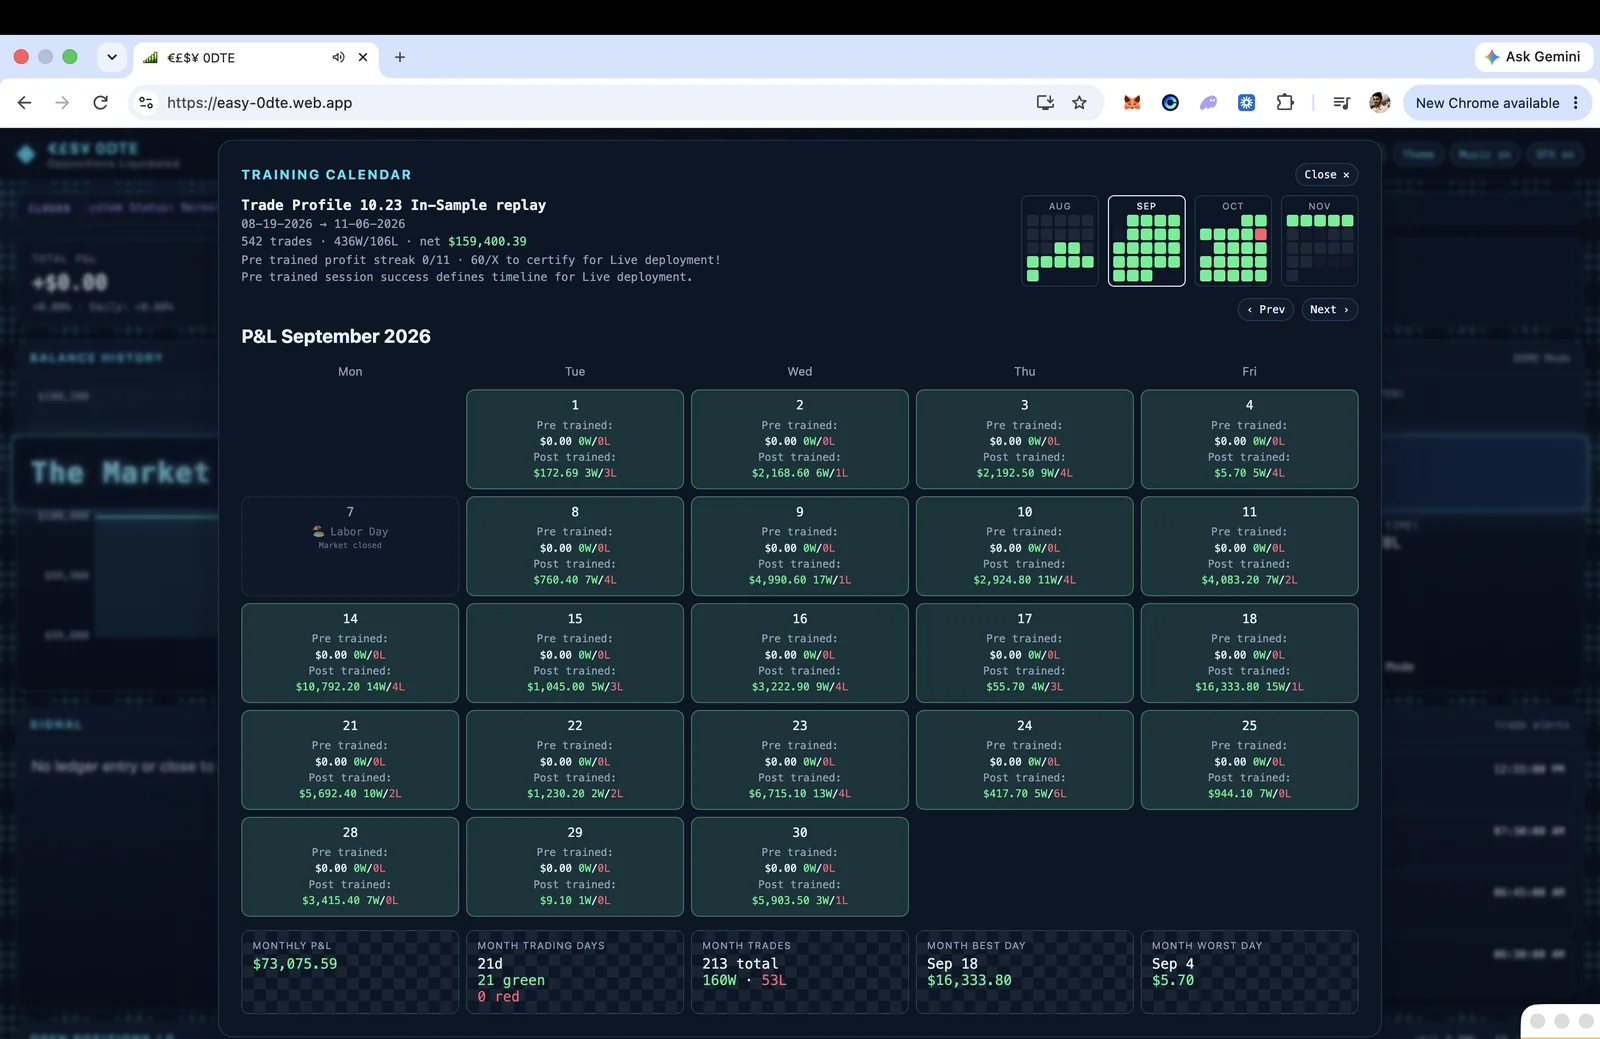
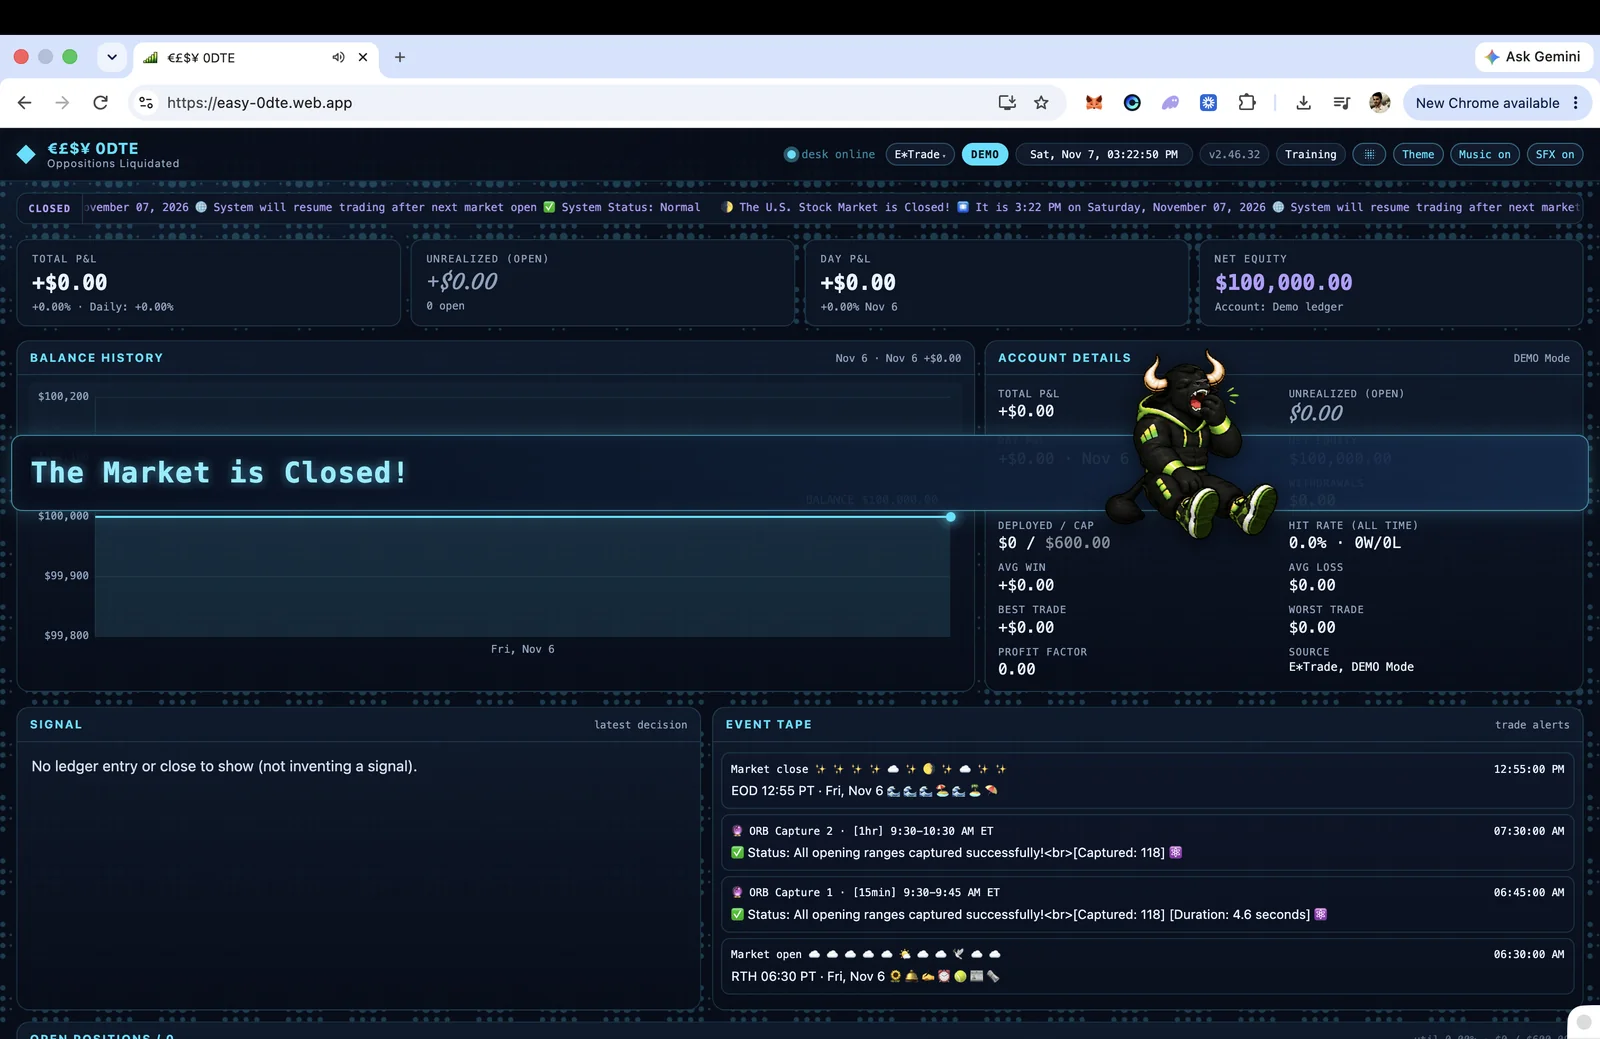
Update the README desk hero to the current Demo operator desk.
Use the November 7 Firebase screenshot with the $100,000 reseeded ledger, KPI strip, and Event Tape instead of the Training Calendar overlay.

diff --git a/README.md b/README.md
@@ -12,9 +12,9 @@ I designed and built Easy 0DTE as an independent engineering project: session or
 
 [Open the Demo desk →](https://easy-0dte.web.app)
 
-![Easy 0DTE operator desk Training Calendar on Firebase Hosting](docs/images/desk-hero.webp)
+![Easy 0DTE operator desk on Firebase Hosting](docs/images/desk-hero.webp)
 
-*Firebase operator desk at [https://easy-0dte.web.app](https://easy-0dte.web.app). Training Calendar for Trade Profile **10.23** in-sample replay (August 19–November 6, 2026: 542 trades, 436W/106L, +$159,400.39). September tile +$73,075.59. These figures are modeled research, not the running Demo ledger. Serving admit remains **Wide**. Pre trained streak 0/11.*
+*Firebase operator desk at [https://easy-0dte.web.app](https://easy-0dte.web.app) (7 November 2026). Demo mode, $100,000 simulated ledger after reseed, market closed. KPI strip, equity curve, last signal, and Event Tape are the live desk — not Trade Profile 10.23 in-sample research. Serving admit remains **Wide**. Live broker submit is off.*
 
 The dashboard is a read-only Firebase site. Cloud Run writes public snapshot objects; the desk polls them. It does not place orders or invent P&L.
 
